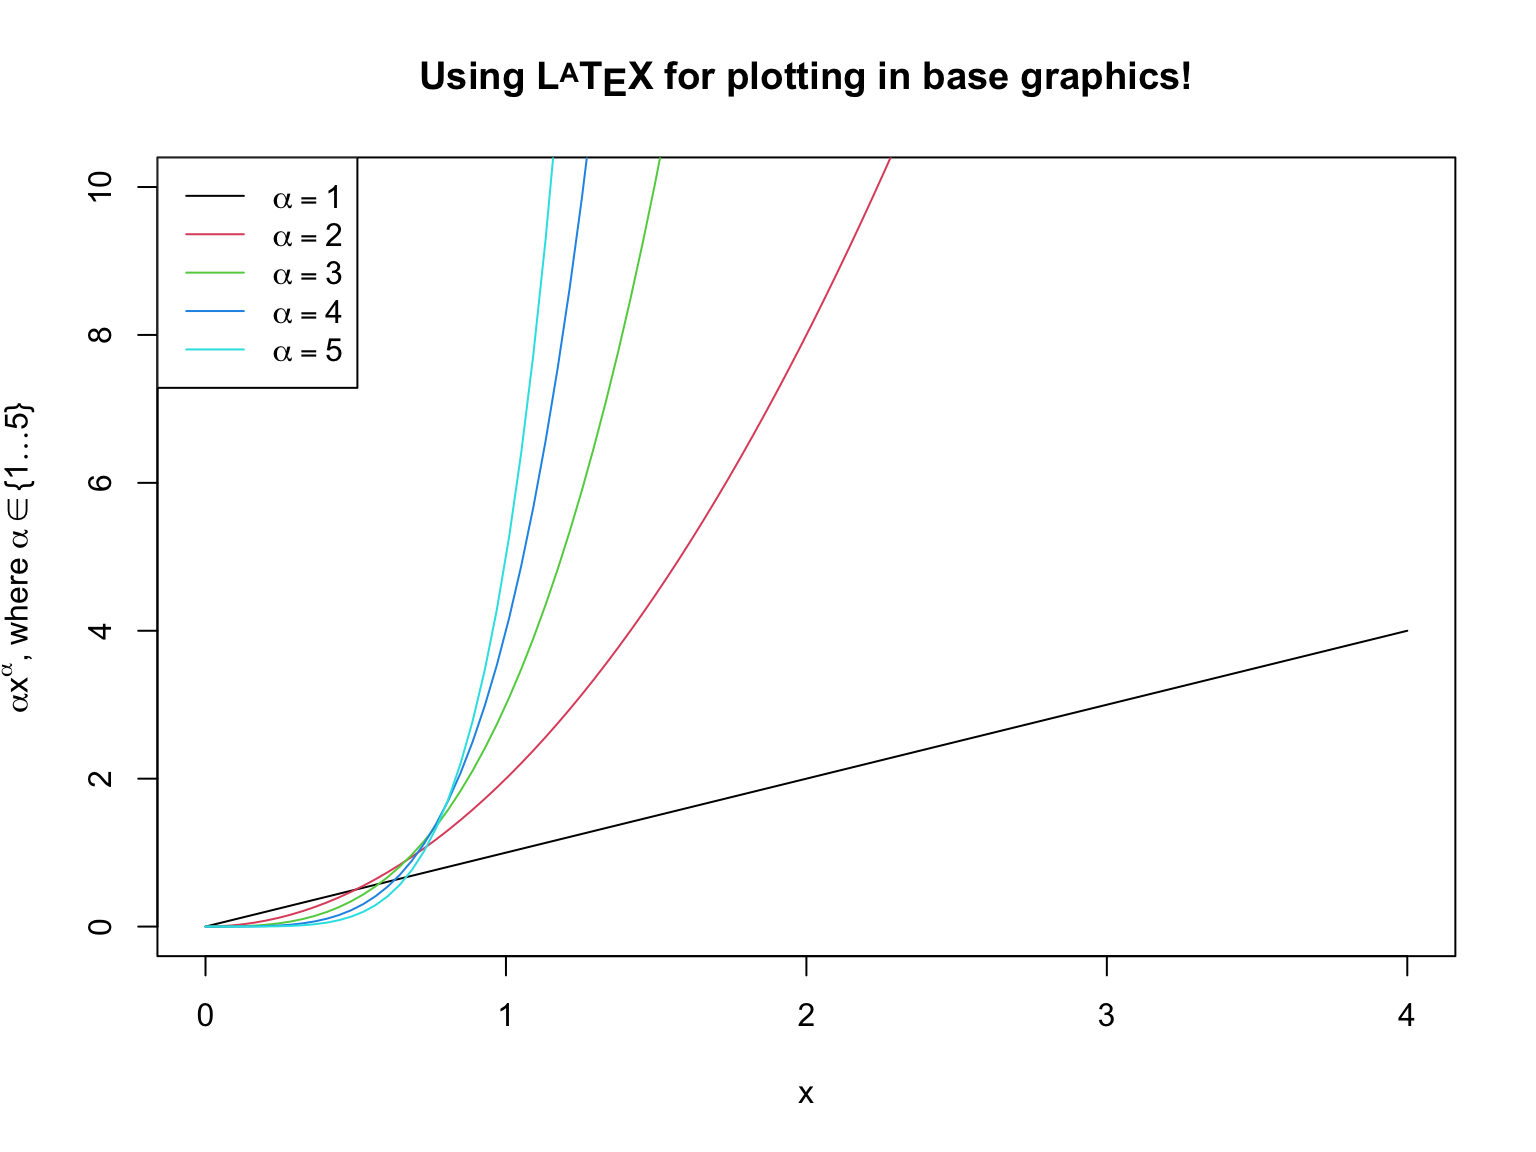
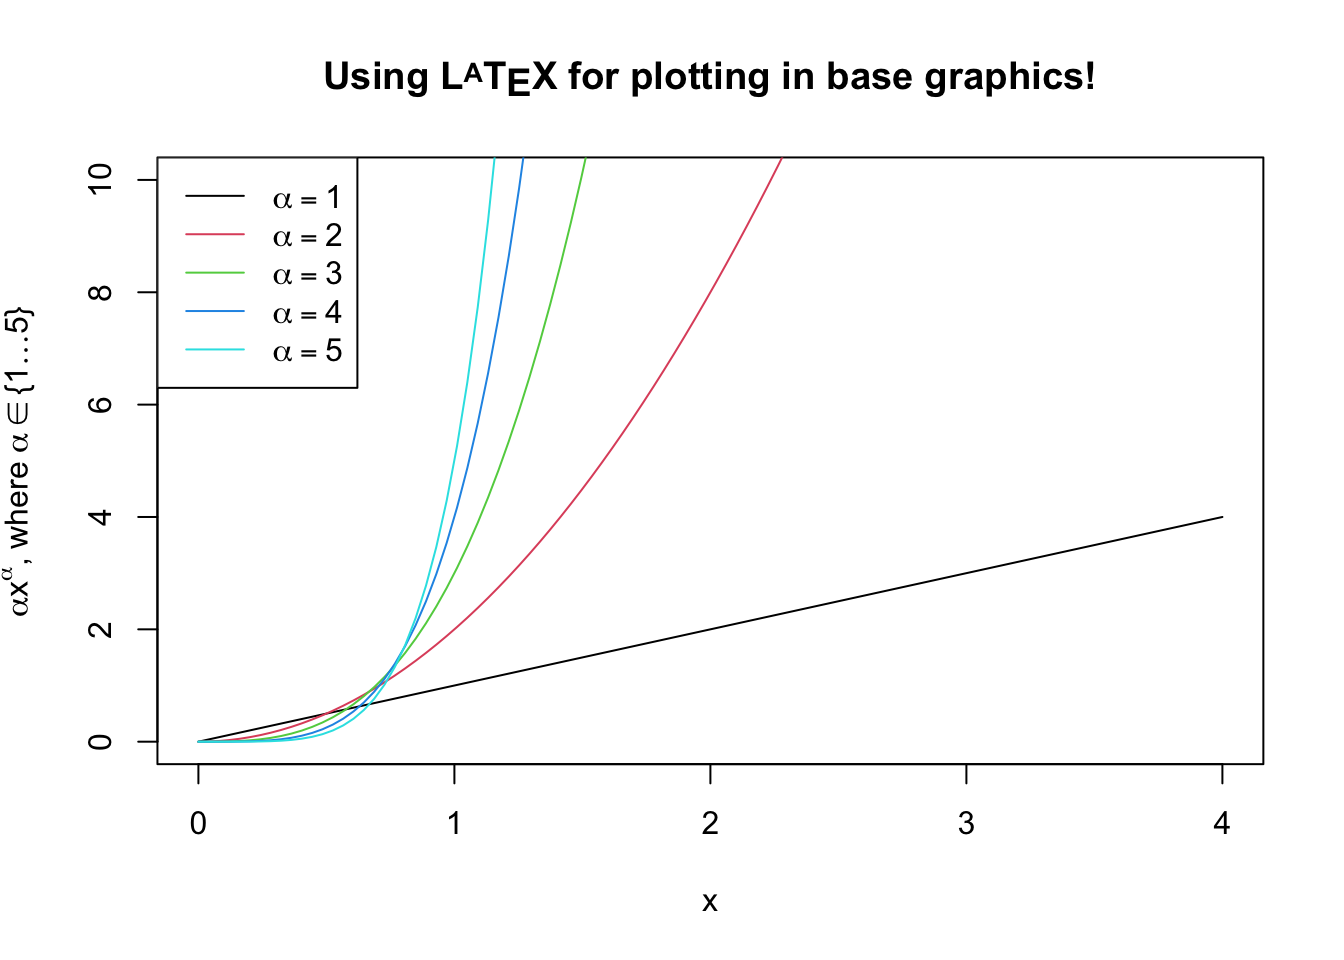
Fixed issue with README.md output

diff --git a/README.md b/README.md
@@ -55,13 +55,14 @@ than `\command`. This will also work on versions of R older than 4.0:
 TeX("\\textbf{Euler's identity} is $e^{i\\pi} = 0$.")
 ```
 
-You can `plot()` the result from TeX to see a preview of how the
-expression will be rendered:
+You can quickly preview what a translated LaTeX string would look like
+by using `plot`:
 
 ``` r
-plot(TeX(r"(\textbf{Euler's identity} is $e^{i\pi} = 0$.)"),
-     cex=3)
+plot(TeX(r'(A $\LaTeX$ formula: $\frac{2hc^2}{\lambda^5} \, \frac{1}{e^{\frac{hc}{\lambda k_B T}} - 1}$)'), cex=2)
 ```
+
+<img src="README_files/figure-gfm/plot-formula-1.png" width="480" />
 
 The following example shows plotting in base graphics:
 
@@ -83,15 +84,11 @@ legend('topleft',
        col=alpha)
 ```
 
-<img src="README_files/figure-gfm/base-plot-1.png" width="768" />
+<img src="README_files/figure-gfm/base-plot-1.png" width="672" />
 
 This example shows plotting in [ggplot2](https://ggplot2.tidyverse.org):
 
 ``` r
-library(purrr)
-library(ggplot2)
-library(tibble)
-
 x <- seq(0, 4, length.out=100)
 alpha <- 1:5
 data <- map_df(alpha, ~ tibble(v=.*x^., x=x, alpha=.))
@@ -108,22 +105,15 @@ p <- ggplot(data, aes(x=x, y=v, color=as.factor(alpha))) +
 print(p)
 ```
 
-You can quickly test out what a translated LaTeX string would look like
-by using `plot`:
-
-``` r
-plot(TeX(r'(A $\LaTeX$ formula: $\frac{2hc^2}{\lambda^5} \, \frac{1}{e^{\frac{hc}{\lambda k_B T}} - 1}$)'), cex=2)
-```
-
-<img src="README_files/figure-gfm/plot-formula-1.png" width="480" />
+<img src="README_files/figure-gfm/ggplot-1.png" width="672" />
 
 Here are a few examples of what you can do with **latex2exp**:
 
 ``` r
-invisible(latex2exp_examples())
+invisible(latex2exp_examples(cex=0.9))
 ```
 
-<img src="README_files/figure-gfm/examples-1.png" width="768" />
+<img src="README_files/figure-gfm/examples-1.png" width="672" />
 
 ## Supported LaTeX commands
 
